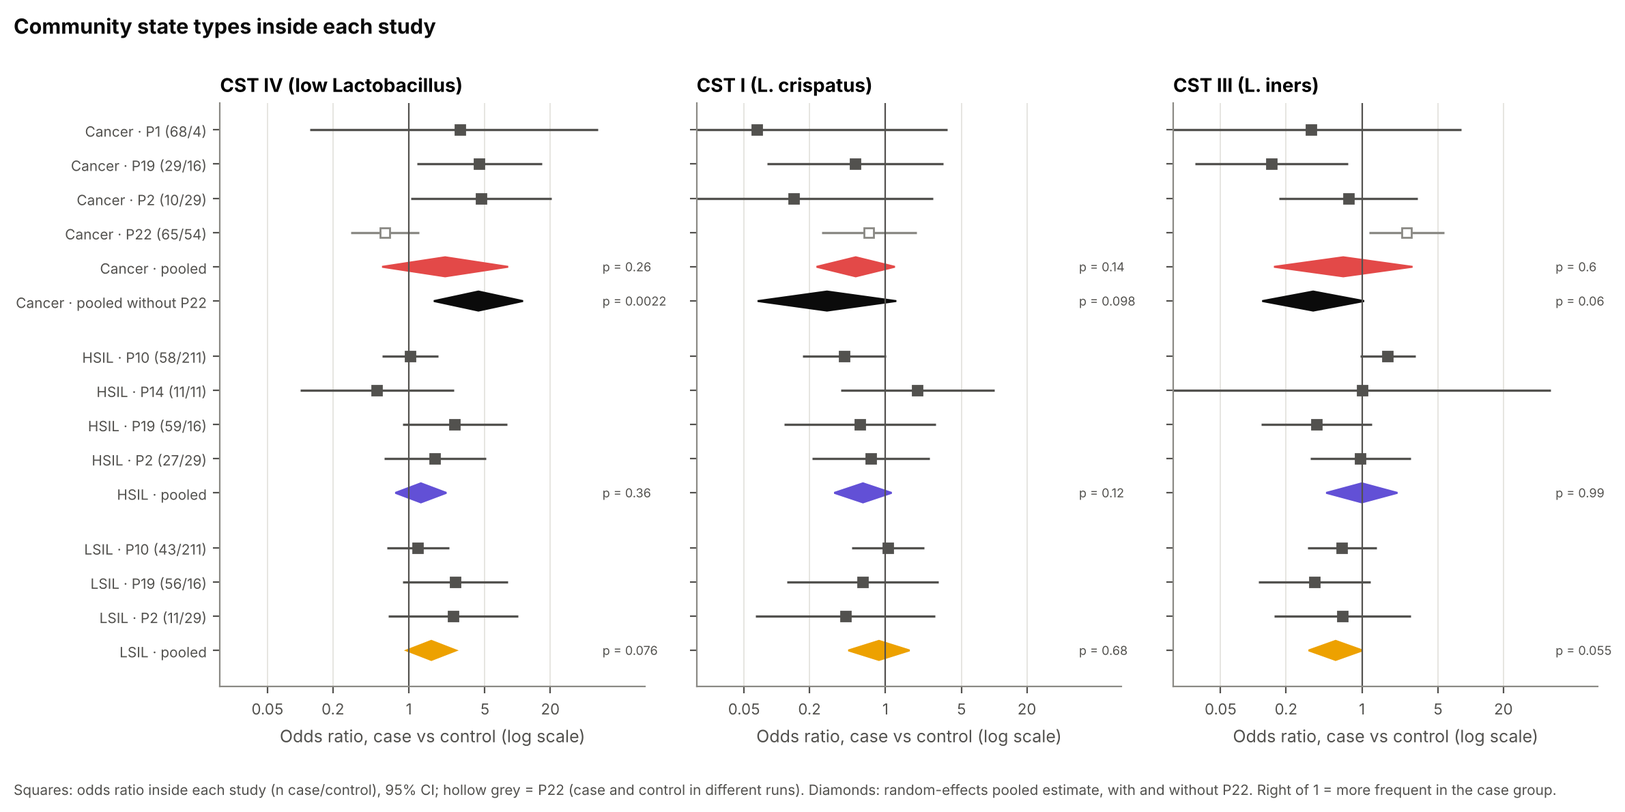
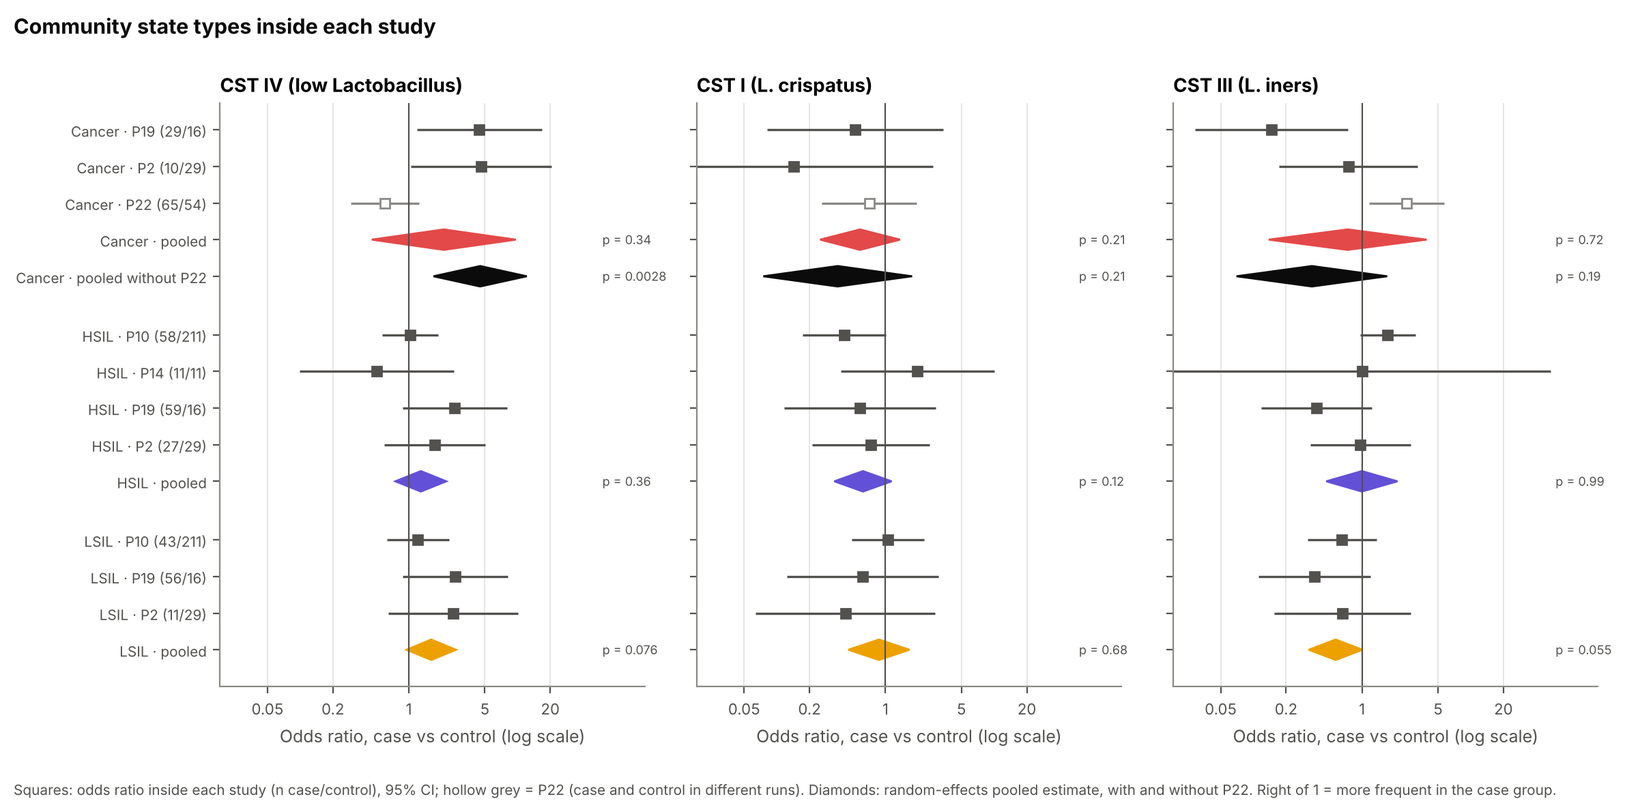
Article and dissertation sections (CSTs, N and pairing, limitations); exclude P1 from CST comparisons (4 controls flip the corrected OR)
Claude-Session: https://claude.ai/code/session_01JMDn7cfK97Nz8FeZ635Ltu

diff --git a/analysis/relatorio_vies.html b/analysis/relatorio_vies.html
@@ -590,8 +590,8 @@ ul.tight{padding-left:20px;display:grid;gap:6px}
     <table>
       <thead><tr><th>Comparação</th><th>Todos juntos (OR)</th><th>Dentro dos estudos (OR, p)</th><th>Sem o P22 (OR, IC 95%, p)</th></tr></thead>
       <tbody>
-        <tr><td>CST IV no câncer</td><td class="mono">6,0</td><td class="mono">2,2 · p = 0,26 (3/4)</td><td class="mono"><b>4,4 · 1,7–11,2 · p = 0,002</b></td></tr>
-        <tr><td>CST I (<i>L. crispatus</i>) no câncer</td><td class="mono">0,17</td><td class="mono">0,53 · p = 0,14 (4/4)</td><td class="mono">0,29 · 0,07–1,26 · p = 0,10</td></tr>
+        <tr><td>CST IV no câncer</td><td class="mono">6,0</td><td class="mono">2,1 · p = 0,34 (2/3)</td><td class="mono"><b>4,5 · 1,7–12,2 · p = 0,003</b></td></tr>
+        <tr><td>CST I (<i>L. crispatus</i>) no câncer</td><td class="mono">0,17</td><td class="mono">0,58 · p = 0,21 (3/3)</td><td class="mono">0,36 · 0,08–1,76 · p = 0,21</td></tr>
         <tr><td>CST IV na HSIL</td><td class="mono">1,5</td><td class="mono">1,3 · p = 0,36 (3/4)</td><td class="mono">—</td></tr>
         <tr><td>CST IV na LSIL</td><td class="mono">1,9</td><td class="mono">1,6 · p = 0,08 (3/3)</td><td class="mono">—</td></tr>
         <tr><td>CST III (<i>L. iners</i>) na LSIL</td><td class="mono">0,61</td><td class="mono">0,57 · p = 0,06 (3/3)</td><td class="mono">—</td></tr>
@@ -599,8 +599,8 @@ ul.tight{padding-left:20px;display:grid;gap:6px}
     </table>
   </div>
   <div class="prose">
-    <p><b>O resultado mais claro é a perda da dominância de <i>Lactobacillus</i> no câncer.</b> O CST IV é mais frequente no câncer no P1, no P2 e no P19, e o efeito combinado é significativo sem o P22 (OR 4,4). O P22 é o único com sinal contrário, de novo por ter câncer e controle em corridas diferentes. <i>L. crispatus</i> (CST I) é menos frequente no câncer nos 4 estudos, mas sem significância. Nas lesões os efeitos vão na mesma direção, porém são menores e não significativos.</p>
-    <p>Como nas outras análises, juntar todos os estudos exagera o efeito: o OR do CST IV no câncer cai de 6,0 para 2,2–4,4 quando a comparação é feita dentro dos estudos. Esse resultado é biologicamente interpretável e conversa com a literatura (CST IV associado a HPV, lesões e câncer), por isso pode entrar no artigo como resultado principal de composição. Ressalvas: 45% das amostras têm similaridade abaixo de 0,5 com o CST atribuído, o que é comum em coortes fora da América do Norte e em câncer; e as atribuições de espécie dependem do trecho do 16S (V4 ou V3-V4). Figuras: <span class="mono">f28_cst_por_projeto</span> e <span class="mono">f29_cst_meta</span>.</p>
+    <p><b>O resultado mais claro é a perda da dominância de <i>Lactobacillus</i> no câncer.</b> O CST IV é mais frequente no câncer no P19 (83% contra 50%) e no P2 (70% contra 31%), e o efeito combinado é significativo sem o P22 (OR 4,5). O P1 fica fora da comparação porque tem só 4 controles. O P22 é o único com sinal contrário, de novo por ter câncer e controle em corridas diferentes. <i>L. crispatus</i> (CST I) é menos frequente no câncer nos 3 estudos comparáveis, mas sem significância. Nas lesões os efeitos vão na mesma direção, porém são menores e não significativos.</p>
+    <p>Como nas outras análises, juntar todos os estudos exagera o efeito: o OR do CST IV no câncer cai de 6,0 para 2,1–4,5 quando a comparação é feita dentro dos estudos. Esse resultado é biologicamente interpretável e conversa com a literatura (CST IV associado a HPV, lesões e câncer), por isso pode entrar no artigo como resultado principal de composição. Ressalvas: 45% das amostras têm similaridade abaixo de 0,5 com o CST atribuído, o que é comum em coortes fora da América do Norte e em câncer; e as atribuições de espécie dependem do trecho do 16S (V4 ou V3-V4). Figuras: <span class="mono">f28_cst_por_projeto</span> e <span class="mono">f29_cst_meta</span>.</p>
   </div>
 
   <h2>15. Busca de estudos com caso e controle no SRA</h2>

diff --git a/analysis/23_cst_valencia.py b/analysis/23_cst_valencia.py
@@ -211,7 +211,7 @@ for desfecho, col in [("CST IV (sem dominância de Lactobacillus)", "IV"), ("CST
         ys, vs = [], []
         for pj, s in o.groupby("Project"):
             ca, co = s[s.tipo_amostra == classe], s[s.tipo_amostra == "control"]
-            if len(ca) < 4 or len(co) < 4:
+            if len(ca) < 5 or len(co) < 5:  # o P1 tem 4 controles: com uma célula zero, a correção de 0,5 inverte o sinal
                 continue
             a, b = int(ca.y.sum()), len(ca) - int(ca.y.sum())
             c, d = int(co.y.sum()), len(co) - int(co.y.sum())

diff --git a/analysis/texto_dissertacao_PT.md b/analysis/texto_dissertacao_PT.md
@@ -1,0 +1,159 @@
+# Seções para a dissertação (rascunho)
+
+Textos em português para adaptar ao capítulo de Métodos, Resultados e Discussão. Os números vêm
+de `results/22*`, `results/23*` e das figuras f27, f28 e f29. A versão em inglês, mais curta,
+está em `texto_artigo_EN.md`.
+
+---
+
+## Métodos
+
+### Tipos de comunidade vaginal (CSTs)
+
+As amostras foram classificadas em tipos de comunidade vaginal (*community state types*, CSTs)
+com o VALENCIA (France et al., 2020). O VALENCIA atribui cada amostra ao mais parecido de 13
+perfis de referência (subtipos de CST), definidos a partir de mais de 13 mil amostras vaginais,
+usando a similaridade de Yue-Clayton. Os tipos são:
+- **CST I:** dominado por *Lactobacillus crispatus*;
+- **CST II:** por *L. gasseri*;
+- **CST III:** por *L. iners*;
+- **CST V:** por *L. jensenii*;
+- **CST IV:** pouca abundância de *Lactobacillus*. Divide-se em IV-A e IV-B, com *Gardnerella* e *Atopobium*, e IV-C, com outros anaeróbios, *Streptococcus*, *Enterococcus*, *Bifidobacterium* ou *Staphylococcus*.
+
+O VALENCIA precisa da espécie para *Lactobacillus*, *Gardnerella*, *Atopobium* e *Sneathia*. O
+SILVA 138 não distinguiu *L. crispatus* nem *L. gasseri* nas ASVs deste trabalho, então:
+- as ASVs desses gêneros foram alinhadas às sequências de referência do vSpeciateDB (Holm et al., 2024), usando a referência da mesma região do 16S (V3-V4 ou V4);
+- a ASV recebeu a espécie quando a identidade foi de pelo menos 97% e o melhor alinhamento correspondeu a uma única espécie vaginal;
+- todas as ASVs de *Gardnerella* foram tratadas como *G. vaginalis*, como no VALENCIA;
+- *Prevotella* foi agrupada no nível de gênero, nas amostras e nos perfis de referência.
+
+Com isso, 85% das leituras de *Lactobacillus* receberam espécie. A classificação foi feita nas
+889 amostras da tabela reprocessada, a única que tem as sequências das ASVs.
+
+Para cada comparação (câncer, HSIL ou LSIL contra controle), a proporção de amostras em CST IV,
+CST I e CST III foi comparada dentro de cada estudo que tinha pelo menos cinco amostras em cada
+grupo. O efeito em cada estudo foi medido pelo odds ratio, com correção de 0,5 nas caselas.
+Os estudos foram combinados por meta-análise de efeitos aleatórios (DerSimonian-Laird), com e
+sem o PRJNA725946 (P22), cujo caso e controle foram sequenciados em corridas diferentes. O P1
+(PRJNA687644) ficou de fora dessas comparações porque tem apenas quatro controles: com uma casela
+zerada, a correção de 0,5 chega a inverter o sinal do efeito.
+
+### Delineamento dentro dos estudos e tamanho amostral
+
+Quatro estudos tinham apenas amostras de câncer e um tinha quase só controles. Para verificar se
+esses estudos de uma classe só acrescentam informação à comparação entre caso e controle, foram
+feitas quatro análises:
+
+1. **N efetivo.** Contagem das amostras de cada grupo que vêm de estudos com caso e controle.
+2. **Embaralhamento dentro do estudo.** Os rótulos clínicos foram embaralhados dentro de cada estudo, o que apaga a informação de doença mas mantém a origem de cada amostra. Em seguida, a validação cruzada aleatória de 10 partes foi repetida (10 permutações).
+3. **Curva de aprendizado.** Na comparação câncer × controle, modelos de Random Forest e regressão logística foram treinados de duas formas: só com estudos que têm os dois grupos (com frações crescentes das amostras) ou com esses estudos mais os estudos de uma classe. Os modelos foram avaliados no estudo deixado de fora. O P22 foi excluído dessas análises.
+4. **Poder.** Cálculo do número de amostras por grupo necessário para detectar uma diferença padronizada de 0,3 com 80% de poder (α = 0,05, bilateral).
+
+---
+
+## Resultados
+
+### Tipos de comunidade vaginal
+
+| CST | Amostras | % |
+|---|---|---|
+| IV-C | 318 | 36 |
+| III | 213 | 24 |
+| IV-B | 211 | 24 |
+| I | 121 | 14 |
+| II e V | 26 | 3 |
+
+**Câncer.** Dentro dos estudos, o CST IV foi mais frequente no câncer do que nos controles no
+P19 (PRJNA914231; 83% contra 50%, teste exato de Fisher p = 0,04) e no P2 (PRJNA518153; 70%
+contra 31%, p = 0,06). No P22 foi menos frequente (45% contra 57%), o que é compatível com o
+efeito de corrida desse estudo.
+
+| CST IV no câncer | OR | IC 95% | p |
+|---|---|---|---|
+| Sem o P22 | 4,5 | 1,7–12,2 | 0,003 |
+| Com o P22 | 2,1 | 0,5–9,7 | 0,34 (I² = 81%) |
+| Todas as amostras juntas, sem considerar o estudo | 6,0 | — | — |
+
+Juntar as amostras sem considerar o estudo superestima o efeito. O CST I (*L. crispatus*) foi
+menos frequente no câncer nos três estudos comparáveis, mas sem significância (OR 0,58; IC
+0,25–1,36).
+
+**Lesões.** Os efeitos foram na mesma direção, mas menores e sem significância:
+
+| Comparação | OR | IC 95% | p |
+|---|---|---|---|
+| CST IV na LSIL | 1,6 | 0,95–2,7 | 0,08 |
+| CST III (*L. iners*) na LSIL | 0,57 | 0,32–1,01 | 0,06 |
+| CST IV na HSIL | 1,3 | 0,75–2,2 | 0,36 |
+
+Esses resultados indicam que a perda da dominância de *Lactobacillus* é o padrão de composição
+mais consistente associado ao câncer cervical neste conjunto de dados. Nas lesões, o sinal é
+fraco.
+
+### Estudos de uma classe e tamanho amostral
+
+**Uma grande parte do N não informa a comparação.** Na tabela original:
+- 113 dos 287 cânceres (39%) vêm de estudos sem nenhum controle;
+- 331 dos 436 controles (76%) vêm de estudos sem nenhum câncer.
+
+Na tabela reprocessada, essas proporções são 42% e 68%.
+
+**O desempenho com todos os dados juntos vem principalmente do estudo de origem.** Com os rótulos
+embaralhados dentro de cada estudo, a validação cruzada aleatória quase não perdeu desempenho:
+
+| Classe | AUC com rótulos reais | AUC com rótulos embaralhados |
+|---|---|---|
+| Câncer | 0,96 | 0,92 |
+| Controle | 0,84 | 0,81 |
+
+**Mais N só ajuda se for pareado.** Com cerca de 105 amostras de estudos com caso e controle, o
+Random Forest alcançou AUC de 0,74–0,75 no estudo deixado de fora. Acrescentar as 350–450 amostras
+dos estudos de uma classe:
+- não melhorou o resultado na tabela original (0,76);
+- piorou o resultado na tabela reprocessada (0,67).
+
+O que esses estudos acrescentam é sobretudo o contraste entre controles dominados por
+*Lactobacillus* e cânceres com pouco *Lactobacillus*, junto com artefatos próprios de cada
+estudo: leituras sem gênero vindas de DNA humano no P16 e contaminantes de reagente no P9. Dentro
+do P19, a diversidade de Shannon sozinha separou câncer de controle com AUC de 0,80, o mesmo valor
+dos modelos.
+
+**O N pareado disponível ainda é insuficiente.** Para detectar uma diferença padronizada de 0,3
+com 80% de poder, seriam necessárias cerca de 175 amostras por grupo dentro dos mesmos estudos,
+mais do que o disponível hoje.
+
+---
+
+## Discussão: limitações e estudos futuros
+
+### Limitações
+
+**1. Classe clínica confundida com estudo de origem.**
+- Quatro estudos contribuíram só com amostras de câncer e um quase só com controles.
+- Grande parte da amostra total não informa a comparação entre caso e controle.
+- As estimativas dentro dos estudos se apoiam em poucos estudos: a associação do CST IV com o câncer depende de dois.
+- Juntar todas as amostras infla tanto o desempenho dos classificadores quanto o tamanho dos efeitos.
+
+**2. Problemas nos dados depositados.**
+- **P22:** caso e controle foram sequenciados em corridas diferentes, com leituras de comprimentos diferentes. A comparação dentro desse estudo não se separa do efeito de lote.
+- **P14:** metade das corridas do único estudo brasileiro contém DNA humano, e não amplicons de 16S.
+- **P16:** as 55 corridas listadas formam dois grupos com profundidade e metadados diferentes, e a qual BioProject pertence o segundo grupo ainda precisa ser confirmado.
+
+**3. Heterogeneidade técnica.**
+- Os estudos usaram regiões diferentes do 16S (V3-V4 ou V4), além de primers, kits e plataformas diferentes.
+- Isso limita a resolução no nível de espécie e a comparabilidade entre estudos.
+- 45% das amostras tiveram similaridade baixa (menor que 0,5) com o CST atribuído. Isso é esperado em populações fora da América do Norte, onde as referências do VALENCIA foram definidas, e em amostras de câncer.
+
+**4. Ausência de variáveis clínicas.** Status de HPV, idade, menopausa, tipo histológico e
+estadiamento não estavam disponíveis para todos os estudos e não puderam ser ajustados. O HPV,
+em particular, é um fator de confusão importante para a relação entre microbiota e lesões.
+
+**5. Taxonomia do P22.** A classificação taxonômica do P22 reprocessado ainda precisa ser refeita
+com o classificador SILVA V3-V4 no QIIME 2.
+
+### Estudos futuros
+
+1. **Coleta e sequenciamento pareados.** Sequenciar casos e controles da mesma população nas mesmas corridas, registrando HPV, idade, menopausa e dados do tumor, e com pelo menos 175 amostras por grupo.
+2. **Meta-análise com mais estudos pareados.** Incluir mais estudos com caso e controle. O script `24_busca_sra.py` faz esse levantamento no SRA, e os autores dos estudos só de câncer podem ser contatados sobre controles não depositados.
+3. **Validação com o estudo fora do treino.** Usar o leave-one-study-out e o ajuste por estudo como padrão, em vez da validação cruzada aleatória.
+4. **Maior resolução taxonômica.** Sequenciamento shotgun ou do gene 16S completo, para distinguir espécies e linhagens de *Lactobacillus* e de *Gardnerella* com segurança.

diff --git a/analysis/texto_artigo_EN.md b/analysis/texto_artigo_EN.md
@@ -76,3 +76,80 @@ stable SHAP ranking does not imply transferable biomarkers. Within studies, the 
 among the ten highest-ranked by SHAP were *Atopobium* (enriched in HSIL in three of four studies),
 *Sneathia* (HSIL, two studies), and *Lactobacillus* (depleted) and *Corynebacterium* (enriched) in
 cancer (PRJNA914231 and PRJNA518153), in agreement with the meta-analysis.
+
+## Methods: community state types (new subsection)
+
+Vaginal community state types (CSTs) were assigned with VALENCIA (France et al., 2020), a
+nearest-centroid classifier based on Yue-Clayton similarity to 13 reference sub-CSTs. Because
+SILVA 138 did not resolve *Lactobacillus crispatus* or *L. gasseri* in our amplicons, amplicon
+sequence variants of *Lactobacillus*, *Gardnerella*, *Atopobium* and *Sneathia* were assigned to
+species by alignment to the region-matched (V3-V4 or V4) vSpeciateDB reference sequences
+(Holm et al., 2024), requiring at least 97% identity and a single best-matching vaginal species;
+all *Gardnerella* variants were treated as *G. vaginalis*, and *Prevotella* was collapsed to genus
+in both samples and centroids. CSTs were assigned to the 889 samples of the reprocessed table.
+For each contrast (cancer, HSIL or LSIL vs control), the proportion of samples in CST IV (low
+*Lactobacillus*), CST I (*L. crispatus*) and CST III (*L. iners*) was compared within each study
+with at least five samples per group, and log odds ratios (0.5 continuity correction) were pooled
+with a DerSimonian-Laird random-effects model, with and without PRJNA725946.
+
+## Methods: within-study design and sample size (new subsection)
+
+Because four studies contained only cancer samples and one contained almost only controls,
+we tested whether these single-class studies contributed information on the case-control
+contrast. (i) We counted the samples that came from studies containing both groups. (ii) We
+shuffled clinical labels within each study, which removes the case-control information while
+preserving study membership, and repeated the random 10-fold cross-validation (10 permutations).
+(iii) For cancer vs control, we trained Random Forest and logistic regression models on studies
+with both groups, with increasing fractions of their samples or with the single-class studies
+added, and evaluated them on the held-out study (PRJNA725946 was excluded from these analyses
+because its cases and controls were sequenced in different runs). (iv) We estimated the number of
+samples per group needed to detect a standardised difference of 0.3 with 80% power (two-sided
+α = 0.05).
+
+## Results: community state types (new paragraph)
+
+Most samples were assigned to CST IV-C (36%), CST III (24%), CST IV-B (24%) or CST I (14%). Within
+studies, CST IV was more frequent in cancer than in controls in PRJNA914231 (83% vs 50%, Fisher
+p = 0.04) and PRJNA518153 (70% vs 31%, p = 0.06), and less frequent in PRJNA725946 (45% vs 57%),
+the study in which cases and controls were sequenced in different runs. Excluding this study,
+the pooled odds ratio for CST IV in cancer was 4.5 (95% CI 1.7–12.2, p = 0.003); including it,
+2.1 (0.5–9.7, p = 0.34, I² = 81%). Pooling all samples without regard to study gave an odds ratio
+of 6.0, overstating the within-study effect. CST I (*L. crispatus*) was less frequent in cancer in
+all three comparable studies (pooled OR 0.58, 0.25–1.36). For lesions, effects pointed in the same
+direction but were smaller: CST IV in LSIL, OR 1.6 (0.95–2.7, p = 0.08); CST III (*L. iners*) in
+LSIL, OR 0.57 (0.32–1.01, p = 0.06); CST IV in HSIL, OR 1.3 (0.75–2.2, p = 0.36).
+
+## Results: single-class studies and sample size (new paragraph)
+
+In the original table, 113 of 287 cancer samples (39%) came from studies without controls and
+331 of 436 controls (76%) from studies without cancer (42% and 68% in the reprocessed table).
+Shuffling the clinical labels within each study left most of the random cross-validation
+performance intact (cancer AUC 0.96 to 0.92; control 0.84 to 0.81), indicating that pooled
+performance derives largely from study membership. With about 105 training samples from studies
+with both groups, the Random Forest reached an AUC of 0.74–0.75 in the held-out study; adding
+the 350–450 samples from single-class studies did not improve it (0.76 in the original table)
+or reduced it (0.67 in the reprocessed table). What single-class studies added was mainly the
+contrast between *Lactobacillus*-dominated controls and *Lactobacillus*-depleted cancers, together
+with study-specific artefacts; within PRJNA914231, Shannon diversity alone separated cancer from
+controls with an AUC of 0.80, as did the models. Detecting a standardised difference of 0.3 with
+80% power requires about 175 samples per group from the same studies, more than the paired samples
+currently available.
+
+## Discussion: limitations and future studies (new paragraph)
+
+This meta-analysis has several limitations. Clinical group and study of origin were strongly
+confounded: four studies contributed only cancer samples and one almost only controls, so a
+large part of the pooled sample cannot inform the case-control comparison, and the within-study
+estimates rest on few studies (two for the CST IV association with cancer). In PRJNA725946, cases
+and controls were sequenced in different runs, which makes the within-study contrast inseparable
+from a batch effect. Inspection of raw reads showed that half of the runs of the only Brazilian
+study (PRJNA933917) contained human DNA rather than 16S amplicons, and that the 55 runs listed for
+PRJNA1029035 comprise two sets with different depth and metadata. Studies used different regions
+of the 16S rRNA gene (V3-V4 or V4), primers, kits and platforms, which limits species-level
+resolution and comparability; CST similarity scores were low for 45% of samples, as expected for
+populations outside the North American reference and for cancer. Information on HPV status, age,
+menopausal status, histological type and stage was not available for all studies and could not
+be adjusted for. Future studies should sequence cases and controls from the same population in
+the same runs, record these clinical covariates, and aim for at least 175 samples per group. For
+meta-analyses, additional studies with both cases and controls (identified, for example, with the
+SRA search provided in our repository) and leave-one-study-out validation should be the standard.

diff --git a/analysis/figuras/EXPLICACOES.md b/analysis/figuras/EXPLICACOES.md
@@ -363,17 +363,17 @@ modelo usa**, não se aquilo é biologia.
 
 **O que significa.**
 - Os estudos só ou quase só de câncer (P1, P6, P9, P16) são quase todos CST IV vermelho, o que reforça por que eles "ensinam" disbiose ao modelo.
-- Nos estudos com os dois grupos, o câncer tem mais CST IV que o controle no P1, no P2 e no P19. No P22 isso não acontece, por causa do efeito de corrida.
+- Nos estudos com os dois grupos, o câncer tem mais CST IV que o controle no P2 e no P19. No P1 os 4 controles também são CST IV, e no P22 o câncer tem menos CST IV, por causa do efeito de corrida.
 - Nas lesões (P10, P2, P19) as barras de caso e controle são parecidas.
 
 ### f29. CSTs dentro de cada estudo
 
-**O que mostra.** O odds ratio de ter cada CST no caso em relação ao controle, dentro de cada estudo (quadrados, com IC 95%; o P22 em cinza vazado). Os losangos são o efeito combinado (efeitos aleatórios), com e sem o P22.
+**O que mostra.** O odds ratio de ter cada CST no caso em relação ao controle, dentro de cada estudo com pelo menos 5 amostras por grupo (quadrados, com IC 95%; o P22 em cinza vazado). O P1 fica fora porque tem só 4 controles. Os losangos são o efeito combinado (efeitos aleatórios), com e sem o P22.
 
 **Como ler.** À direita de 1, o CST é mais frequente no caso; à esquerda, no controle.
 
 **O que significa.**
-- **CST IV no câncer:** OR 4,4 (IC 1,7–11,2; p = 0,002) sem o P22, mesma direção em P1, P2 e P19. É o resultado de composição mais sólido do trabalho.
-- ***L. crispatus* (CST I):** menos frequente no câncer nos 4 estudos, mas sem significância.
+- **CST IV no câncer:** OR 4,5 (IC 1,7–12,2; p = 0,003) sem o P22, com P19 e P2 na mesma direção. É o resultado de composição mais sólido do trabalho, mas se apoia em dois estudos.
+- ***L. crispatus* (CST I):** menos frequente no câncer nos 3 estudos comparáveis, mas sem significância.
 - **Lesões:** CST IV um pouco mais frequente (LSIL p = 0,08) e *L. iners* menos frequente na LSIL (p = 0,06); nada significativo.
 - Com todos os dados juntos, o OR do CST IV no câncer seria 6,0. Comparar dentro dos estudos dá um número menor, mas confiável.

diff --git a/analysis/README.md b/analysis/README.md
@@ -49,8 +49,8 @@ python 24_busca_sra.py                  # candidatos no SRA com caso e controle 
 python 21_figuras.py                    # 26 figuras do artigo em figuras/ (PNG e PDF); explicação de cada uma em figuras/EXPLICACOES.md
 ```
 
-Textos para o artigo: `texto_metodos_EN.md` (Métodos) e `texto_artigo_EN.md` (exclusões, notas da
-Tabela 1, validação e biomarcadores). A tabela `PAOLA_FILTRADA` é a da Paola sem leituras
+Textos para o artigo: `texto_metodos_EN.md` (Métodos) e `texto_artigo_EN.md` (exclusões, CSTs, N e pareamento, limitações, notas da
+Tabela 1, validação e biomarcadores). Versão em português para a dissertação: `texto_dissertacao_PT.md`. A tabela `PAOLA_FILTRADA` é a da Paola sem leituras
 "Unassigned" e de Eukaryota (corrige o P16).
 
 As tabelas analisadas vêm da variável `TABELAS` (padrão: `PAOLA,TASSI_V2`). Opções: `PAOLA`,
@@ -121,8 +121,8 @@ Os resultados já calculados estão em `results/`.
   Sem o P22, ~100 amostras pareadas dão o mesmo AUC num estudo novo (0,74–0,75) que somar 350–450 amostras de
   estudos de uma classe (0,67–0,76). Para g ≈ 0,3 com 80% de poder seriam ~175 por grupo pareado.
 - **CSTs (VALENCIA)** (`23_cst_valencia.py`): espécies de Lactobacillus por alinhamento ao vSpeciateDB (85% das
-  leituras). CST IV (pouco Lactobacillus) mais frequente no câncer em P1, P2 e P19: OR 4,4 (1,7–11,2; p = 0,002) sem o
-  P22, contra 6,0 com tudo junto. L. crispatus (CST I) menos frequente no câncer nos 4 estudos (n.s.). Lesões: mesma
+  leituras). CST IV (pouco Lactobacillus) mais frequente no câncer no P19 e no P2: OR 4,5 (1,7–12,2; p = 0,003) sem o
+  P22, contra 6,0 com tudo junto (P1 fora: 4 controles). L. crispatus (CST I) menos frequente no câncer nos 3 estudos (n.s.). Lesões: mesma
   direção, sem significância.
 - **P16 na tabela da Paola**: 39% "Unassigned" e 2,5% Eukaryota, provável DNA do hospedeiro
   não filtrado; 29 amostras contra 47 na da Tassiane e 26 no artigo.
